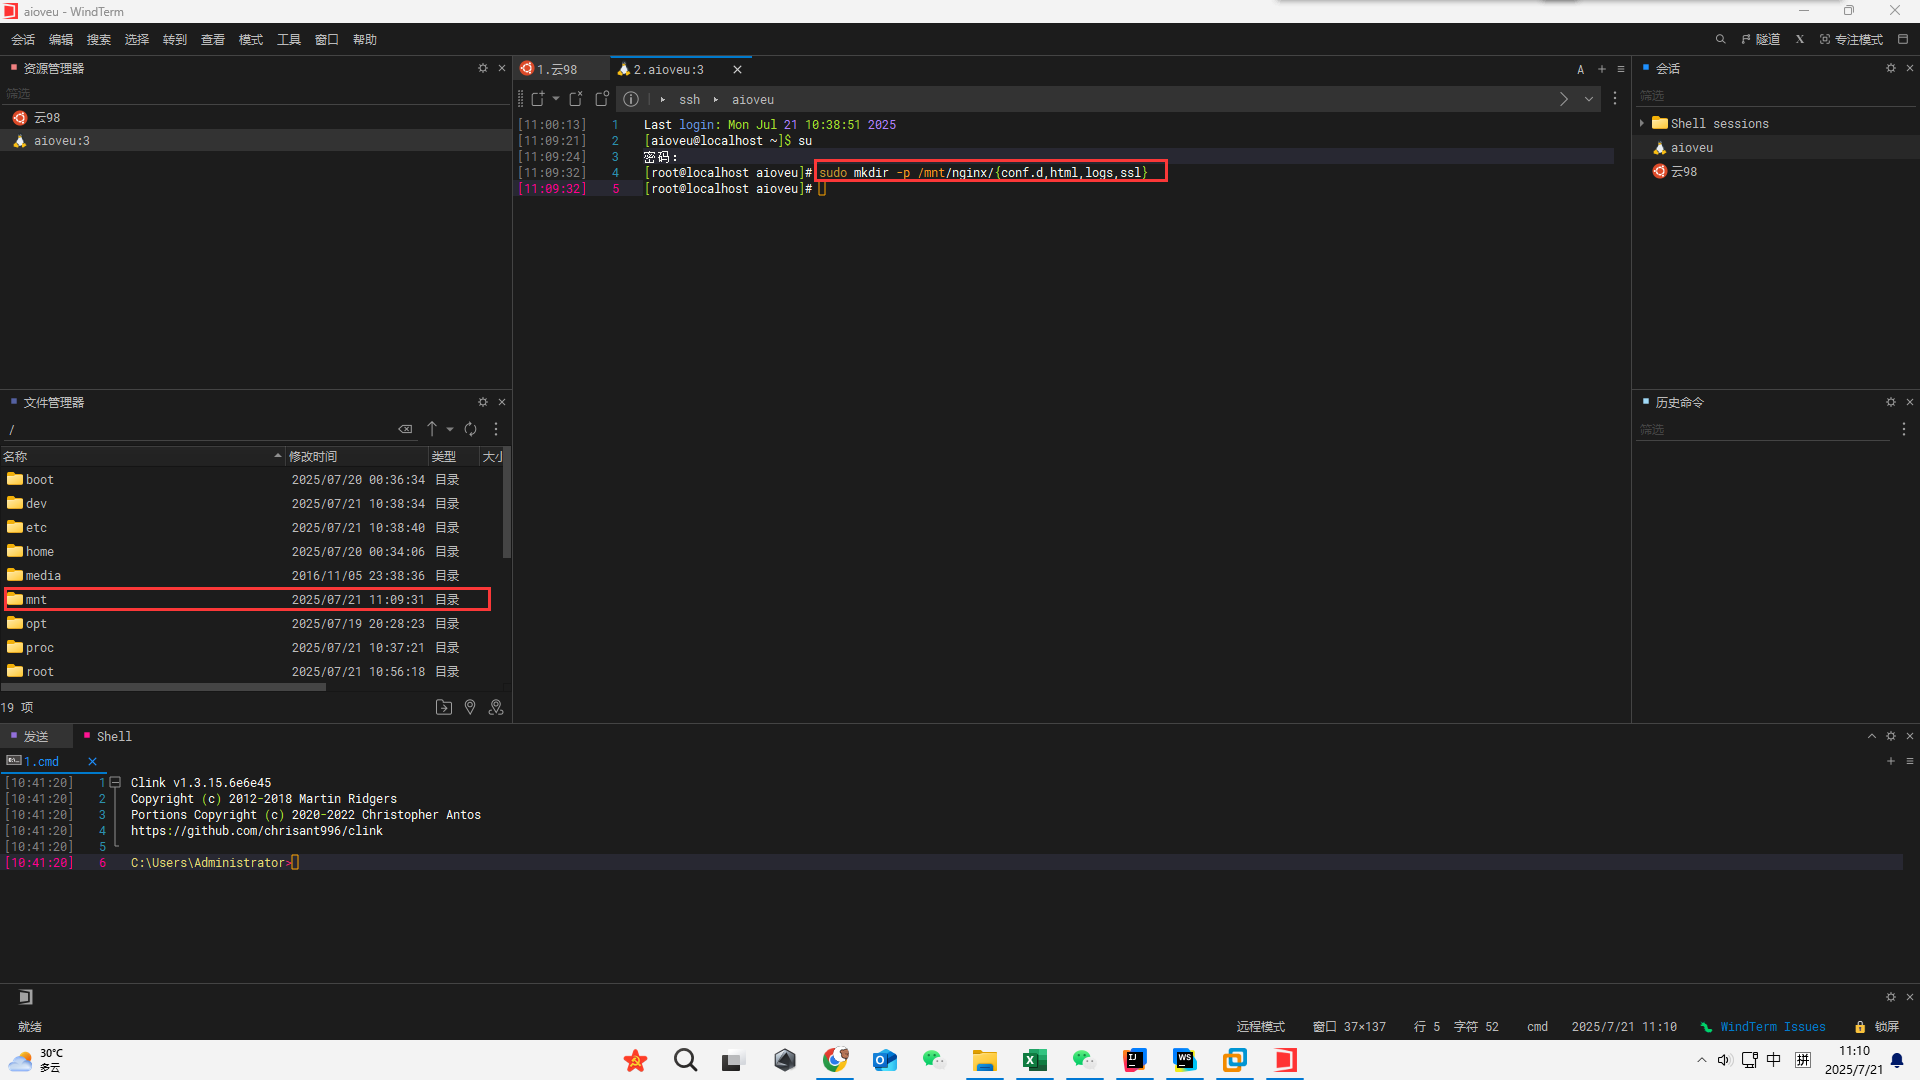
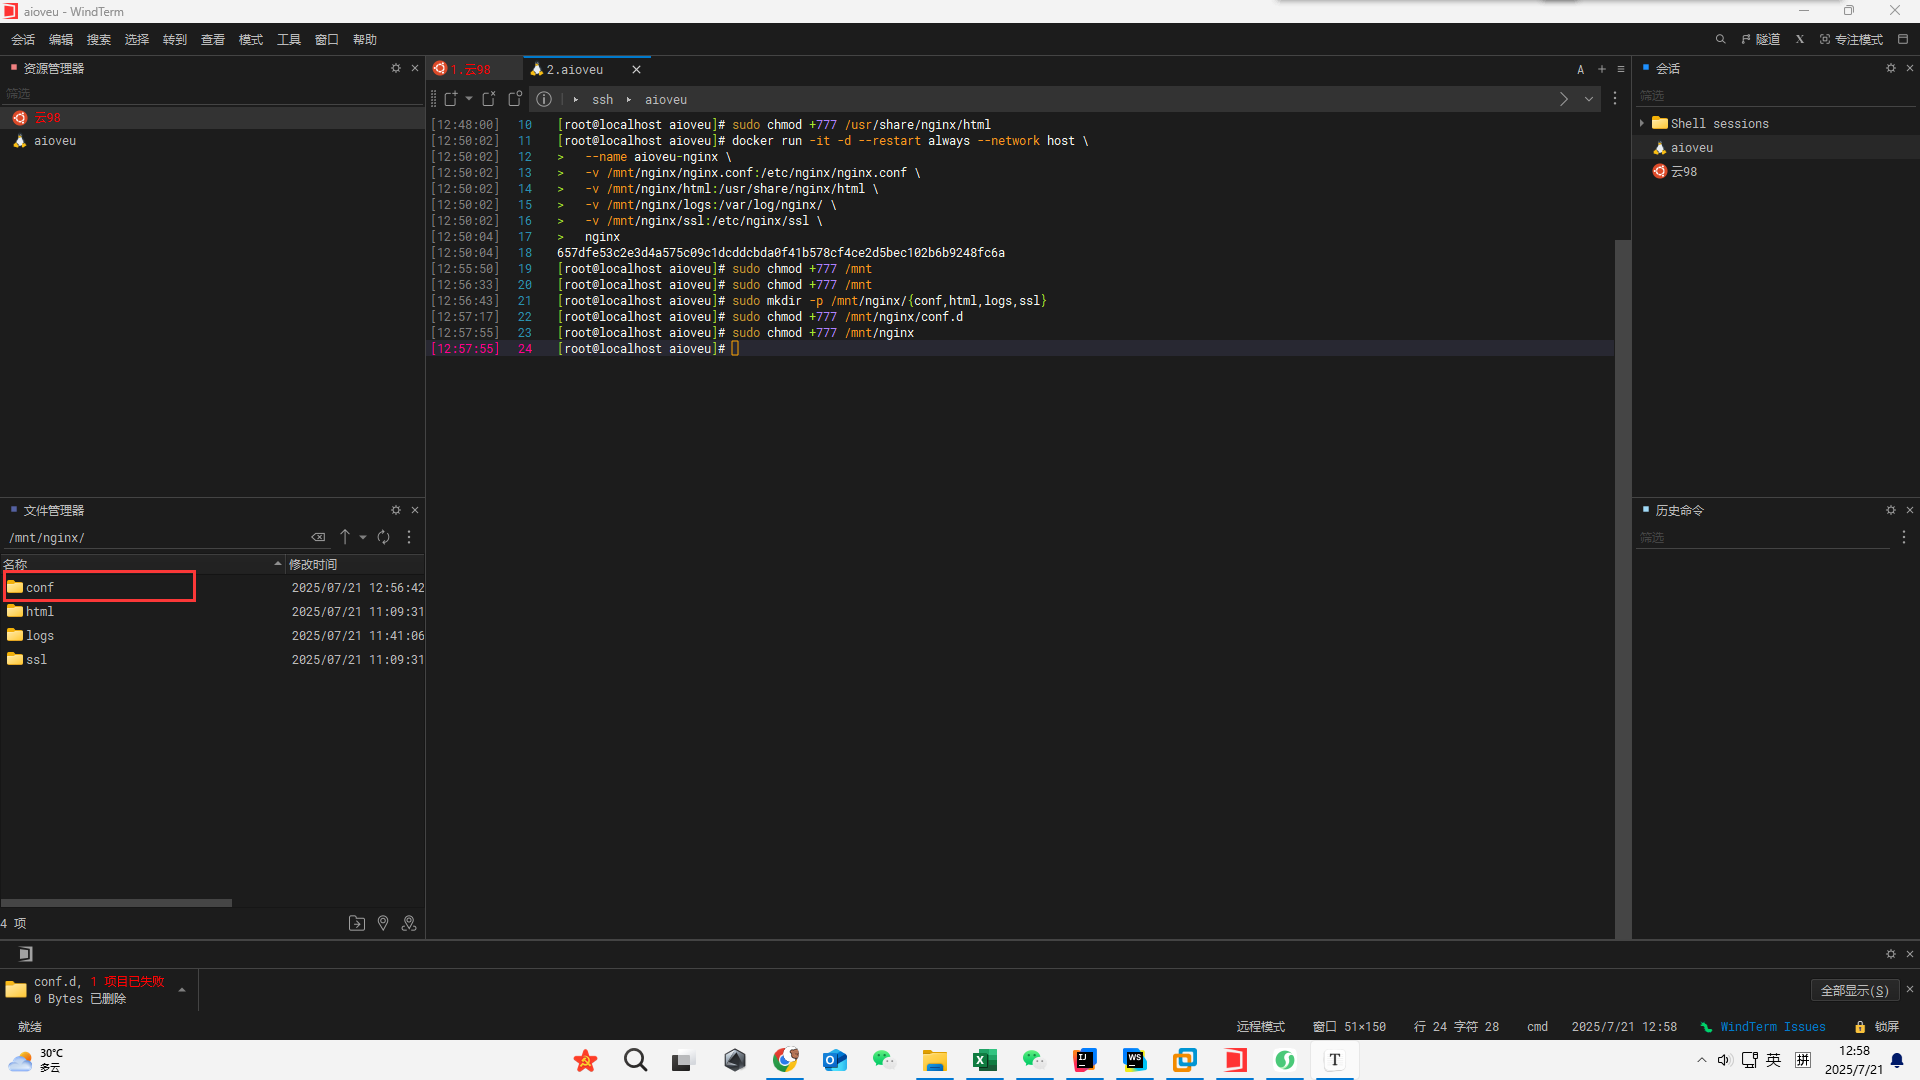
【Docker安装和配置Nginx】2.创建挂载目录conf【0.9】

diff --git a/Docker 安装和配置 Nginx 详细图文教程/2. 创建挂载目录.md b/Docker 安装和配置 Nginx 详细图文教程/2. 创建挂载目录.md
@@ -5,7 +5,14 @@
 
 
 ```
-sudo mkdir -p /mnt/nginx/{conf.d,html,logs,ssl}
+
+
+sudo mkdir -p /mnt/nginx/{conf,html,logs,ssl}
+
+#删除/mnt,首先要授予删除权限
+sudo chmod +777 /mnt
+sudo chmod +777 /mnt/nginx
+sudo chmod +777 /mnt/nginx/conf.d
 ```
 
 
